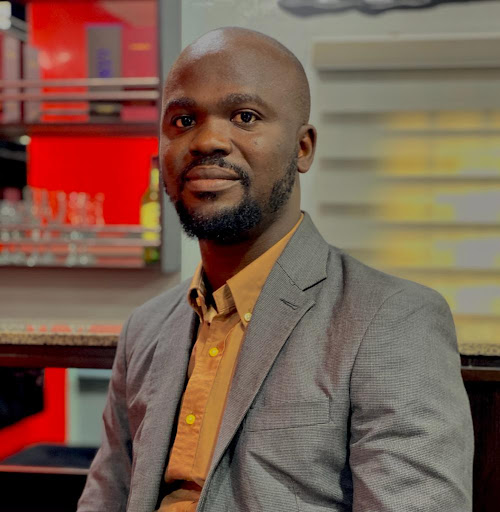
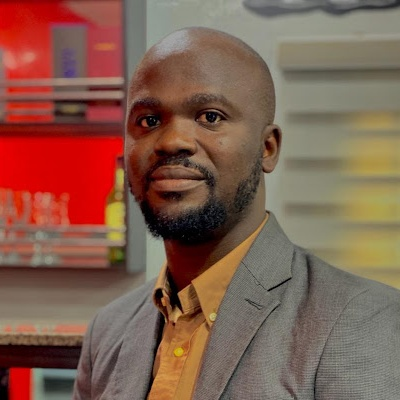
Arranged position of images in Team section

diff --git a/index.html b/index.html
@@ -73,9 +73,9 @@
   
           <div class="row">
   
-            <div class="col-lg-3 col-md-6">
+            <div class="col-lg-auto col-md-auto">
               <div class="member" data-aos="fade-up" data-aos-delay="100">
-                <img src="assets/img/CHUKA.jpg" class="img-fluid" alt="Chuka" height="400" width="400">
+                <img src="assets/img/CHUKA.jpg" alt="Chuka" class="img-fluid">
                 <div class="member-info">
                   <div class="member-info-content">
                     <h4>Chuka Obi</h4>
@@ -91,9 +91,9 @@
               </div>
             </div>
   
-            <div class="col-lg-3 col-md-6">
+            <div class="col-lg-auto col-md-auto">
               <div class="member" data-aos="fade-up" data-aos-delay="200">
-                <img src="assets/img/NORA.jpeg" class="img-fluid" alt="Nora" height="400" width="400">
+                <img src="assets/img/NORA.jpg" alt="Nora" class="img-fluid">
                 <div class="member-info">
                   <div class="member-info-content">
                     <h4>Nora Ikoh</h4>
@@ -109,9 +109,9 @@
               </div>
             </div>
 
-            <div class="col-lg-3 col-md-6">
+            <div class="col-lg-auto col-md-auto">
                 <div class="member" data-aos="fade-up" data-aos-delay="400">
-                  <img src="assets/img/MIKE.png" class="img-fluid" alt="Mike" height="400" width="400">
+                  <img src="assets/img/MIKE.png" alt="Mike" class="img-fluid">
                   <div class="member-info">
                     <div class="member-info-content">
                       <h4>Michael Miller</h4>
@@ -152,9 +152,9 @@
           <div class="row">
             
             
-                <div class="col-lg-2 col-md-6">
+                <div class="col-lg-auto col-md-auto">
                     <div class="member" data-aos="fade-up" data-aos-delay="300">
-                    <img src="assets/img/AYO.jpg" class="img-fluid" alt="">
+                    <img src="assets/img/AYO.jpg" alt="Ayo" class="img-fluid">
                     <div class="member-info">
                         <div class="member-info-content">
                         <h4>Ayodeji Ajayi</h4>
@@ -171,9 +171,9 @@
                 </div>
 
 
-                <div class="col-lg-2 col-md-6">
+                <div class="col-lg-auto col-md-auto">
                     <div class="member" data-aos="fade-up" data-aos-delay="100">
-                    <img src="assets/img/IDDY.jpg" class="img-fluid" alt="">
+                    <img src="assets/img/IDDY.jpg" alt="Iddy" class="img-fluid">
                     <div class="member-info">
                         <div class="member-info-content">
                         <h4>Iddy Enang</h4>
